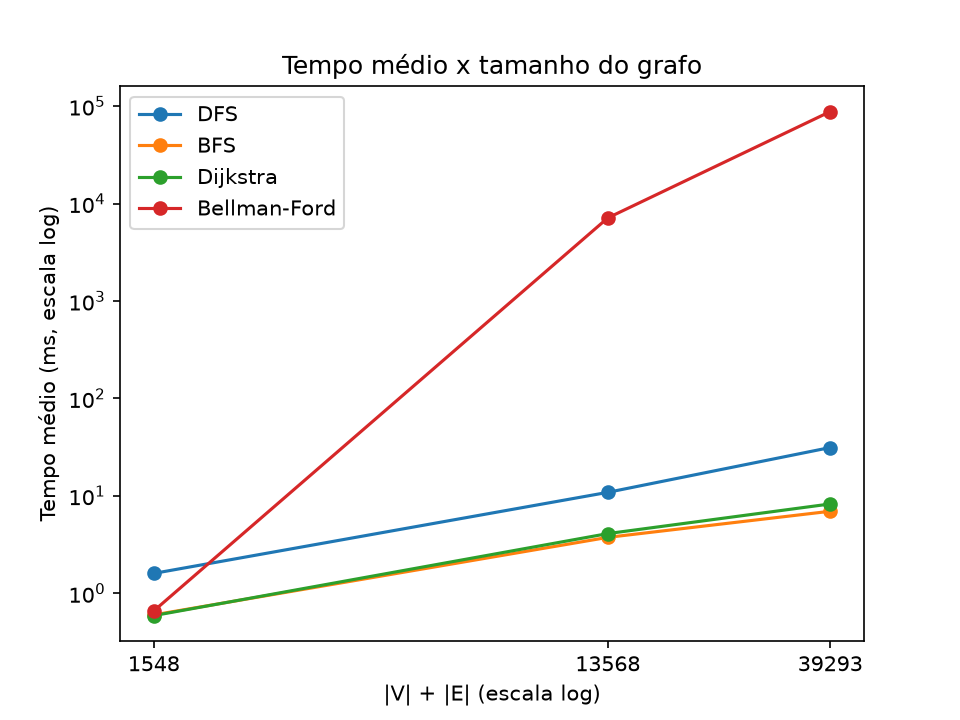
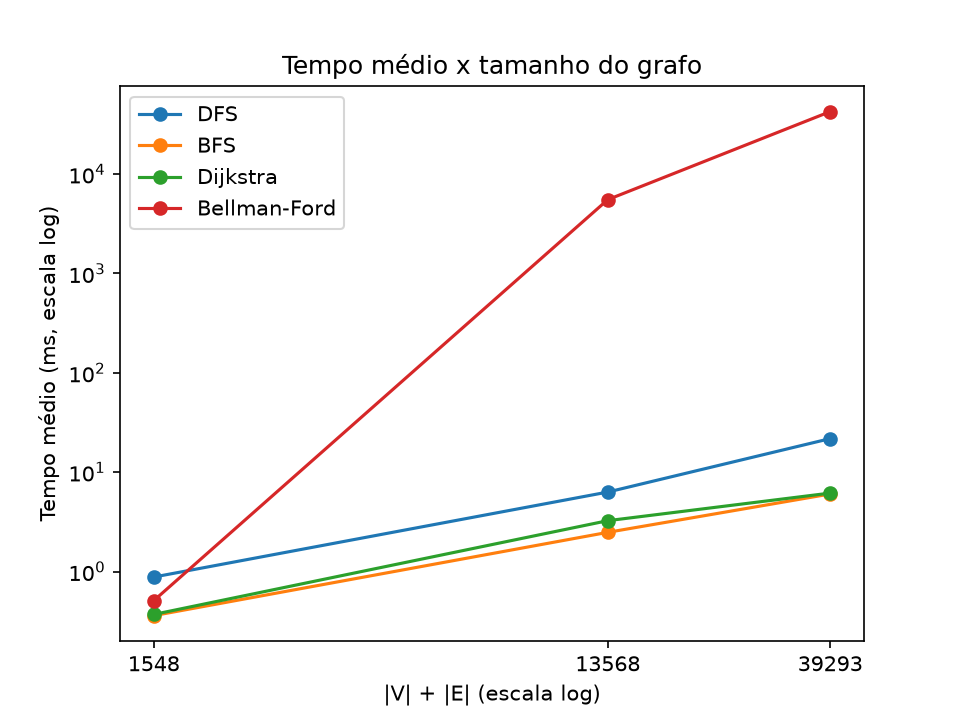
feat(benchmark): mede latência e memória e atualiza as seções 5.6 e 5.7
- benchmark grava latência mínima e máxima das 5 execuções e o pico de
  memória (tracemalloc) no parte2_report.json, com testes
- parte2_report.json e gráfico de escalabilidade refeitos com o PC parado
- relatório: comparação com a complexidade teórica, latência e memória na
  5.6 e quando usar cada algoritmo na 5.7
- registro de IA atualizado

diff --git a/src/benchmark.py b/src/benchmark.py
@@ -6,6 +6,8 @@
 - a DFS percorre o grafo inteiro (floresta); BFS, Dijkstra e Bellman-Ford partem da carteira com
   mais arcos de saída de cada amostra, então não fazem a mesma tarefa que a DFS
 - status OK no Bellman-Ford significa parada antecipada: o tempo não mede V * E
+- latência: tempo de uma execução isolada; o JSON guarda a menor e a maior das 5
+- memória: pico alocado pelo algoritmo (tracemalloc), sem contar o grafo, que já existia
 """
 # [IA] Claude Code – benchmark da Parte 2
 
@@ -13,6 +15,7 @@ import json
 import math
 import random
 import timeit
+import tracemalloc
 from pathlib import Path
 
 import matplotlib
@@ -69,14 +72,34 @@ def maior_grau_saida(grafo):
     return max(grafo.nos(), key=grafo.grau_saida)
 
 
-def tempo_medio(funcao, grafo, repeticoes=5):
-    """Roda funcao(grafo) `repeticoes` vezes e devolve o tempo médio em segundos.
+def medir_tempos(funcao, grafo, repeticoes=5):
+    """Roda funcao(grafo) `repeticoes` vezes e devolve o tempo de cada execução, em segundos.
 
     O timeit desliga o coletor de lixo enquanto mede; sem isso ele às vezes roda no meio
     de uma execução e infla o tempo (o ponto de 50% saía com ~22 ms em vez de ~12 ms).
     """
-    tempos = timeit.repeat(lambda: funcao(grafo), number=1, repeat=repeticoes)
-    return sum(tempos) / repeticoes
+    return timeit.repeat(lambda: funcao(grafo), number=1, repeat=repeticoes)
+
+
+def tempo_medio(funcao, grafo, repeticoes=5):
+    """Tempo médio de `repeticoes` execuções de funcao(grafo), em segundos."""
+    return sum(medir_tempos(funcao, grafo, repeticoes)) / repeticoes
+
+
+def pico_memoria(funcao, grafo):
+    """Roda funcao(grafo) uma vez e devolve o pico de memória alocada durante a execução, em bytes.
+
+    Fica numa execução separada do timeit porque o tracemalloc deixa o código mais lento.
+    O grafo foi criado antes do start, então só entram as estruturas do próprio algoritmo
+    (visitados, fila, distâncias, predecessores) e o retorno.
+    """
+    tracemalloc.start()
+    try:
+        funcao(grafo)
+        _, pico = tracemalloc.get_traced_memory()
+    finally:
+        tracemalloc.stop()
+    return pico
 
 
 def contar_alcancados(retorno):
@@ -97,8 +120,10 @@ def executar_benchmark(pasta, saida, fracoes=FRACOES):
             g = amostrar(grafo_base, fracao)
             origem = maior_grau_saida(g) if usa_origem else None
             ultimo = {}  # guarda o retorno da última execução, para o relatório
-            t = tempo_medio(lambda gr: ultimo.update(funcao(gr, origem)), g)
+            tempos = medir_tempos(lambda gr: ultimo.update(funcao(gr, origem)), g)
+            t = sum(tempos) / len(tempos)
             custo_caso = custo(g, ultimo)
+            pico = pico_memoria(lambda gr: funcao(gr, origem), g)
             resultados.append({
                 "algoritmo": nome, "fracao": fracao, "nos": g.ordem(), "arestas": g.tamanho(),
                 "complexidade": complexidade,
@@ -106,7 +131,10 @@ def executar_benchmark(pasta, saida, fracoes=FRACOES):
                 "alcancados": contar_alcancados(ultimo),
                 "status": ultimo.get("status", "-"),
                 "tempo_medio_ms": round(t * 1000, 2),
+                "latencia_min_ms": round(min(tempos) * 1000, 2),
+                "latencia_max_ms": round(max(tempos) * 1000, 2),
                 "tempo_por_custo_teorico_ms": round(t / custo_caso * 1000, 6) if custo_caso else None,
+                "memoria_pico_kb": round(pico / 1024, 1),
             })
     Path(saida).mkdir(parents=True, exist_ok=True)
     with open(Path(saida) / "parte2_report.json", "w", encoding="utf-8") as f:

diff --git a/tests/test_benchmark.py b/tests/test_benchmark.py
@@ -6,7 +6,7 @@ import json
 import pytest
 
 from src.benchmark import (FRACOES, custo_bellman_ford, custo_busca, executar_benchmark, maior_grau_saida,
-                           tempo_medio)
+                           pico_memoria, tempo_medio)
 from src.carga_parte2 import PASTA_PADRAO
 from src.graphs.graph import Grafo
 
@@ -26,7 +26,15 @@ def test_relatorio_compara_os_algoritmos(tmp_path):
     assert dijkstra["alcancados"] == bfs["alcancados"]
     assert dijkstra["tempo_por_custo_teorico_ms"] is not None
     assert bellman_ford["status"] == "OK" and bellman_ford["tempo_por_custo_teorico_ms"] is None
+    assert all(r["memoria_pico_kb"] > 0 for r in relatorio)
+    assert all(r["latencia_min_ms"] <= r["tempo_medio_ms"] <= r["latencia_max_ms"] for r in relatorio)
     assert (tmp_path / "benchmark_escalabilidade.png").exists()
+
+
+def test_pico_memoria_conta_o_que_a_funcao_aloca():
+    pequeno = pico_memoria(lambda _: [0] * 10, None)
+    grande = pico_memoria(lambda _: [0] * 1_000_000, None)
+    assert grande > 7_000_000 > pequeno  # 1 milhão de ponteiros de 8 bytes
 
 
 def test_fracoes_do_plano():

diff --git a/docs/relatorio/RELATORIO.md b/docs/relatorio/RELATORIO.md
@@ -507,28 +507,34 @@ Por fim, o valor extremo identificado influencia significativamente a magnitude 
 
 Fonte: `out/parte2/parte2_report.json`, `out/parte2/benchmark_escalabilidade.png`.
 
-Cada tempo é a média aritmética de cinco execuções com `timeit`. O carregamento do grafo e a
-amostragem ficaram fora da medição. As frações de 10%, 50% e 100% são relativas aos vértices
-do recorte. Cada subgrafo induzido mantém os arcos cujas duas extremidades foram selecionadas,
-resultando em 1.418 vértices e 130 arcos, 7.091 vértices e 6.477 arcos, e 14.182 vértices e
-25.111 arcos, respectivamente.
+Para cada algoritmo e tamanho de amostra, medimos o tempo de cinco execuções com `timeit`. A tabela apresenta a média dessas execuções. Para a amostra de 100%, mostramos também a latência mínima e máxima, ou seja, quanto duraram a execução mais rápida e a mais lenta das cinco. Os intervalos das outras amostras estão em `out/parte2/parte2_report.json`. Medimos o pico de memória alocada pelo Python com `tracemalloc` em uma execução separada, sem contar a memória do grafo, que já estava carregado. O carregamento e a amostragem ficaram fora das medições.
 
-| Algoritmo | 10% (ms) | 50% (ms) | 100% (ms) | Complexidade |
-|---|---:|---:|---:|---|
-| BFS | 0,60 | 3,75 | 6,95 | O(V + E) |
-| DFS | 1,60 | 10,87 | 31,35 | O(V + E) |
-| Dijkstra | 0,59 | 4,10 | 8,26 | O((V + E) log V) |
-| Bellman-Ford | 0,66 | 7.139,71 | 88.121,32 | O(V · E) |
+As porcentagens de 10%, 50% e 100% se referem aos vértices do recorte. Cada amostra mantém os arcos cujas duas extremidades foram selecionadas. A amostra de 10% ficou com 1.418 vértices e 130 arcos, a de 50% com 7.091 vértices e 6.477 arcos, e a de 100% com 14.182 vértices e 25.111 arcos.
+
+| Algoritmo | Média 10% (ms) | Média 50% (ms) | Média 100% (ms) | Latência 100% (ms) | Pico de memória em 10% / 50% / 100% (KiB) | Complexidade |
+|---|---:|---:|---:|---:|---|---|
+| BFS | 0,36 | 2,48 | 6,03 | 4,33 a 8,85 | 270 / 1.131 / 2.265 | O(V + E) |
+| DFS | 0,88 | 6,31 | 21,77 | 17,42 a 24,82 | 306 / 1.693 / 4.380 | O(V + E) |
+| Dijkstra | 0,37 | 3,25 | 6,16 | 5,77 a 6,52 | 169 / 726 / 1.454 | O((V + E) log V) |
+| Bellman-Ford | 0,51 | 5.538,81 | 42.610,19 | 41.337,47 a 44.237,39 | 220 / 1.195 / 3.497 | O(V · E) |
 
 ![Tempo médio por tamanho do grafo para BFS, DFS, Dijkstra e Bellman-Ford](../../out/parte2/benchmark_escalabilidade.png)
 
-A DFS percorreu todos os vértices de cada amostra. BFS, Dijkstra e Bellman-Ford partiram da mesma
-carteira em cada amostra e registraram 4, 537 e 1.267 vértices alcançados, respectivamente.
-O Dijkstra usou `valor_btc` como peso e validou os pesos de todos os arcos da amostra.
-O Bellman-Ford usou o saldo da carteira de destino como peso. Seu status foi `OK` com parada
-antecipada em 10% e `CICLO_NEGATIVO` em 50% e 100%.
+**Latência.** Na amostra de 100%, BFS e Dijkstra levaram, em média, cerca de 6 ms. A diferença apareceu na variação entre as cinco execuções. A BFS levou de 4,33 a 8,85 ms, enquanto o Dijkstra ficou entre 5,77 e 6,52 ms. Para o Bellman-Ford, a média foi de 42,61 segundos, com as cinco execuções entre 41,34 e 44,24 segundos.
 
-> **[A ESCREVER — Vagner]** Comparar o crescimento observado com a complexidade teórica.
+**Memória.** A DFS apresentou o maior pico de memória nos três tamanhos. Na amostra de 10%, a BFS usou cerca de 270 KiB mesmo alcançando apenas quatro carteiras, pois prepara estruturas de visita para todos os vértices da amostra. De 50% para 100%, o número de vértices dobrou e o pico de memória da BFS e do Dijkstra também praticamente dobrou. No mesmo intervalo, o pico da DFS cresceu cerca de 2,6 vezes e o do Bellman-Ford, 2,9 vezes.
+
+#### Comparação com a complexidade teórica
+
+Para comparar os tempos com a teoria, calculamos quantas vezes o tempo médio aumentou de uma amostra para outra e quantas vezes a expressão de pior caso cresceu no mesmo intervalo. Usamos o número de vértices (V) e de arcos (E) de cada amostra para calcular essas expressões.
+
+De 10% para 50%, o tempo da DFS cresceu 7,17 vezes, o da BFS cresceu 6,89 vezes e o do Dijkstra cresceu 8,78 vezes. Nesse intervalo, V + E, expressão de referência para DFS e BFS, cresceu 8,76 vezes. Para o Dijkstra, (V + E) log V cresceu 10,71 vezes. A DFS percorreu a amostra inteira e levou mais tempo que a BFS e o Dijkstra nos três tamanhos. No caso da BFS, o número de carteiras alcançadas passou de 4 para 537, cerca de 134 vezes, enquanto o tempo aumentou 6,89 vezes. A quantidade de carteiras visitadas explica apenas parte do tempo, já que a BFS também prepara estruturas para todos os vértices. Na amostra de 10%, os quatro tempos médios ficaram abaixo de 1 ms, o que torna as razões mais sensíveis a pequenas variações na medição.
+
+De 50% para 100%, o tempo da DFS cresceu 3,45 vezes, acima das 2,90 vezes de crescimento de V + E. A BFS tem a mesma complexidade de pior caso, mas seu tempo cresceu 2,43 vezes. Como ela só percorre os arcos que saem das carteiras alcançadas, parte dos arcos da amostra fica fora da busca. O tempo do Dijkstra cresceu 1,90 vez, enquanto (V + E) log V cresceu 3,12 vezes. A implementação verifica os pesos de todos os arcos e usa a fila de prioridade apenas na região alcançável a partir da origem.
+
+O Bellman-Ford teve o maior salto de 10% para 50%. Seu tempo cresceu cerca de 10.860 vezes, enquanto V × E cresceu cerca de 249 vezes. Na amostra de 10%, o algoritmo parou antes. Não havia ciclo negativo alcançável a partir da origem e, depois de uma rodada sem mudança nas distâncias, a busca terminou. Na amostra de 50%, havia um ciclo negativo alcançável. As distâncias continuaram diminuindo, e o algoritmo executou todas as rodadas. Essa mudança de comportamento, junto com o aumento do grafo, ajuda a explicar o salto no tempo.
+
+Na amostra de 100%, o Bellman-Ford também executou todas as rodadas. Entre 50% e 100%, o tempo médio passou de 5,54 para 42,61 segundos, um aumento de 7,69 vezes. Nesse intervalo, o crescimento observado ficou próximo das 7,75 vezes de crescimento de V × E.
 
 #### Gráficos complementares do benchmark
 
@@ -557,9 +563,12 @@ dos dois caminhos. O total do BFS foi calculado depois da busca.
 
 #### Decisões
 
-A escolha da carteira de maior grau de saída como origem no BFS e Bellman-Ford foi arbitrária, escolhido porque com mais graus de saída tem uma maior probabilidade de se conseguir uma maior sequência de nós conectados, mesmo que não tenha sido o caso, a regra diz que a origem pode ser escolhida de forma arbitrária. A escala log foi escolhida porque permite ver melhor a diferença entre os números. A fórmula do custo vem da complexidade de cada algoritmo, com base no código deles.
+A escolha da carteira de maior grau de saída como origem na BFS, no Dijkstra e no Bellman-Ford foi arbitrária, escolhido porque com mais graus de saída tem uma maior probabilidade de se conseguir uma maior sequência de nós conectados, mesmo que não tenha sido o caso, a regra diz que a origem pode ser escolhida de forma arbitrária. A escala log foi escolhida porque permite ver melhor a diferença entre os números. A fórmula do custo vem da complexidade de cada algoritmo, com base no código deles.
 
 O gráfico de tempo é um gráfico de linha, escolhido por ser simples.
+
+A tabela mostra a latência apenas da amostra de 100% para não ficar larga demais e porque, nesse tamanho, as execuções duram o suficiente para a variação entre elas ser comparável. Na amostra de 10%, todas ficaram abaixo de 1 ms. Os intervalos das outras amostras estão no JSON.
+
 
 #### Limitações
 
@@ -567,7 +576,17 @@ Uma limitação é a amostra de 10%. Ela é um sorteio com seed fixa, que pega 1
 
 ### 5.7 Discussão crítica
 
-> **[A ESCREVER — Davi e Vagner]** Quando e por que cada algoritmo é mais adequado.
+#### Quando e por que usar cada algoritmo
+
+Cada algoritmo foi feito para responder a um tipo de pergunta. Conhecendo o objetivo de cada um, podemos dizer qual é mais adequado para cada caso.
+
+BFS. O objetivo da BFS é descobrir quantos repasses separam duas carteiras e quais carteiras podem ser alcançadas em até k passos. Como a busca visita os vértices por camadas, a primeira vez que chega a uma carteira já encontrou um caminho com o menor número de arcos. Por isso, ela é a mais adequada quando todos os repasses têm o mesmo valor para a análise. 
+
+DFS. O objetivo da DFS é explorar a estrutura das conexões. Ela segue um ramo em profundidade antes de voltar. Ela é a mais adequada para para entender se existem ciclos, além de ver quais regiões estão ligadas entre si. No benchmark, a DFS foi executada sem uma fonte específica: sempre que terminava uma busca, recomeçava em um vértice ainda não visitado. Por isso percorreu todas as carteiras de cada amostra.
+
+Dijkstra. O objetivo do Dijkstra é encontrar o caminho com a menor soma dos pesos, desde que todos os arcos tenham peso maior ou igual a zero. Com pesos não negativos, nenhum caminho encontrado depois pode ficar mais barato que a menor distância ainda aberta, e por isso a fila de prioridade pode tratar como definitiva a carteira que ela retira. No projeto, usamos valor_btc como peso.
+
+Bellman-Ford. O objetivo do Bellman-Ford é encontrar a menor soma dos pesos quando existem pesos negativos e detectar um ciclo de custo negativo alcançável a partir da origem. Na Parte 2, o peso de cada arco é o saldo líquido da carteira de destino. Com esse peso existem arcos negativos, e o Dijkstra não pode ser usado: a implementação recusa pesos negativos. O algoritmo atualiza as distâncias por até V − 1 rodadas. Se uma distância ainda puder diminuir na verificação seguinte, existe um ciclo negativo alcançável. Nas situações que tem ciclo negativo, repetir o ciclo reduz a soma dos pesos a cada volta, de modo que não há custo mínimo finito para os destinos alcançáveis a partir dele.
 
 #### Resposta à pergunta de pesquisa
 

diff --git a/docs/REGISTRO_IA.md b/docs/REGISTRO_IA.md
@@ -96,3 +96,5 @@ Exigido pelo enunciado: todo uso de IA é declarado aqui e na `DECLARACAO_IA.pdf
 | 19/11/2026 | Davi | Claude Code | Script que converte o relatório Markdown em PDF (HTML com figuras embutidas, impressão pelo Chrome/Edge) e avisa dos marcadores pendentes; script que conta commits por integrante e pacote a partir do git e os PRs revisados (gh); testes; atualização factual das seções 7 e 10.2 do relatório. Sem conteúdo de análise | `scripts/gerar_pdf.py`, `scripts/matriz_contribuicao.py`, `tests/test_gerar_pdf.py`, `tests/test_matriz_contribuicao.py`, `requirements.txt`, `README.md`, `docs/relatorio/RELATORIO.md` | Permitido (IO e documentação) |
 | 19/11/2026 | Davi | Claude Code | Organização dos documentos da professora em `docs/referencias/`, ata da reunião de 19/11 e atualização do status em `PROXIMOS_PASSOS.md` e `PLANO_DE_TRABALHO.md` comparando a rubrica com o repositório. Sem interpretação de resultados | `docs/referencias/`, `docs/PROXIMOS_PASSOS.md`, `docs/PLANO_DE_TRABALHO.md`, `README.md` | Permitido (documentação) |
 | 19/11/2026 | Davi | Claude Code | Sugestão de 5 mapas de treino para o ensaio do mapa surpresa (um inválido), conferidos rodando `executar_parte1` e a CLI do grupo; gabarito tirado da saída do código. Não são os mapas do grupo da Seção 10 | `data/mapas_treino/` | Permitido (sugerir mapas extras, conferidos pelo grupo) |
+| 20/11/2026 | Vagner | Claude Code | Medição de latência e memória no benchmark P4b: tempo de cada uma das 5 execuções guardado (menor e maior viram `latencia_min_ms` e `latencia_max_ms`) e pico de memória com `tracemalloc` numa execução separada (`memoria_pico_kb`), gravados no `parte2_report.json`; testes dos novos campos e da medição de memória. Nenhuma alteração nos algoritmos do grupo; o benchmark foi rodado pelo Vagner | `src/benchmark.py`, `tests/test_benchmark.py` | Permitido (medição/IO e testes) |
+| 20/11/2026 | Vagner | Claude Code | Revisão de precisão e clareza dos textos escritos pelo Vagner nas seções 5.6 (comparação com a complexidade teórica, latência e memória) e 5.7 (quando usar cada algoritmo): conferência das razões, tempos e memória com o `parte2_report.json` e dos números com o relatório e o código dos algoritmos; correção da DFS ("quantos filhos tem cada nó" não depende da DFS). Inserção da 5.6 no relatório sem alterar a redação, com a linha de fonte, a imagem, o nível do título e a inclusão do Dijkstra na frase da origem em Decisões. Interpretação dos resultados é do Vagner | `docs/relatorio/RELATORIO.md` | Permitido (revisão de texto) |
